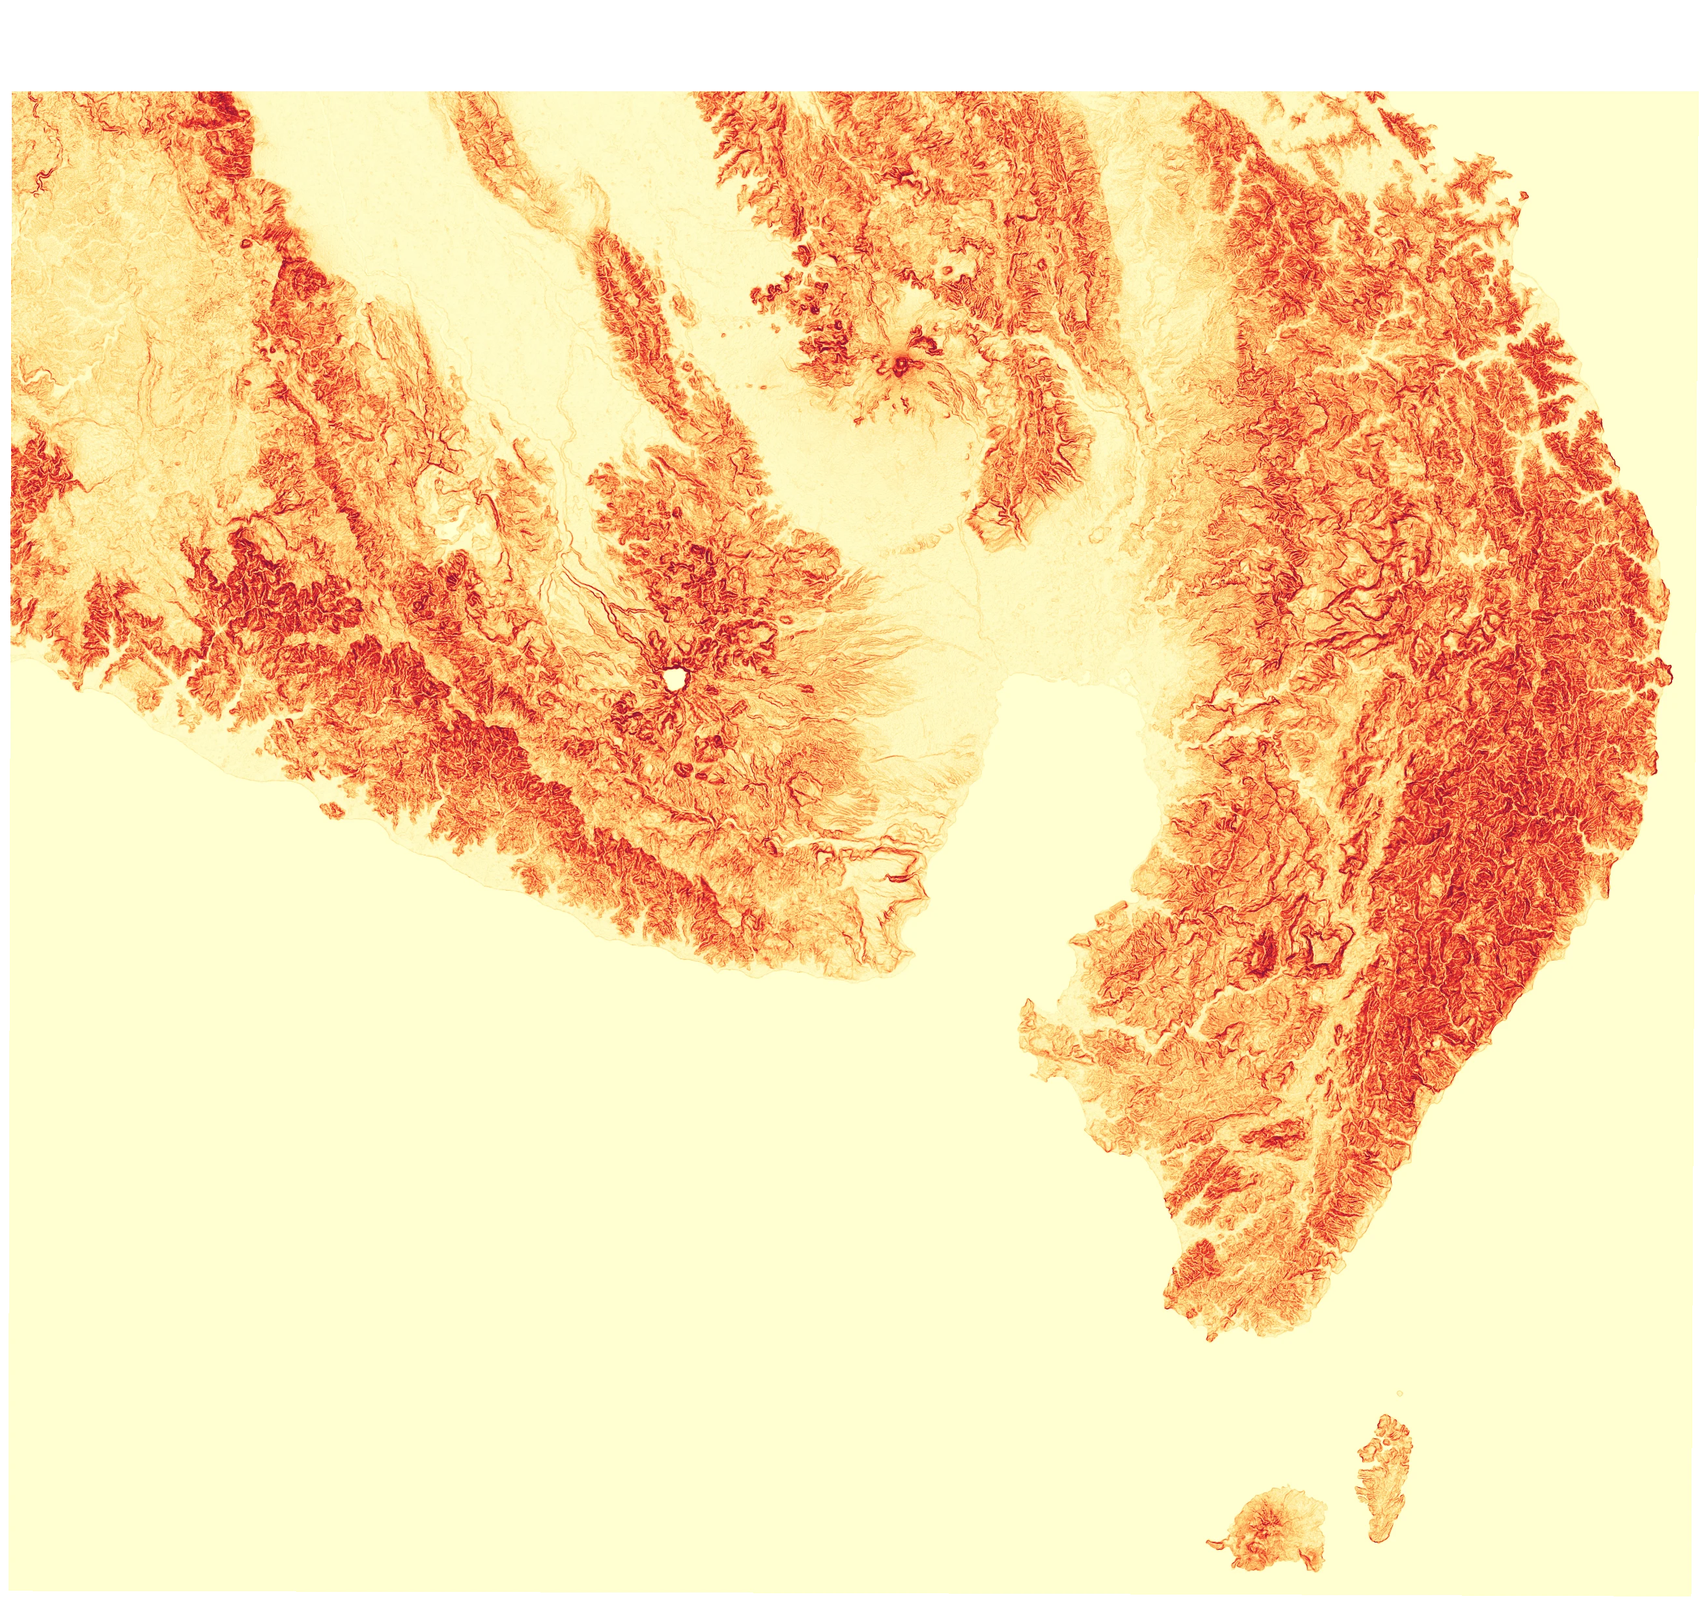
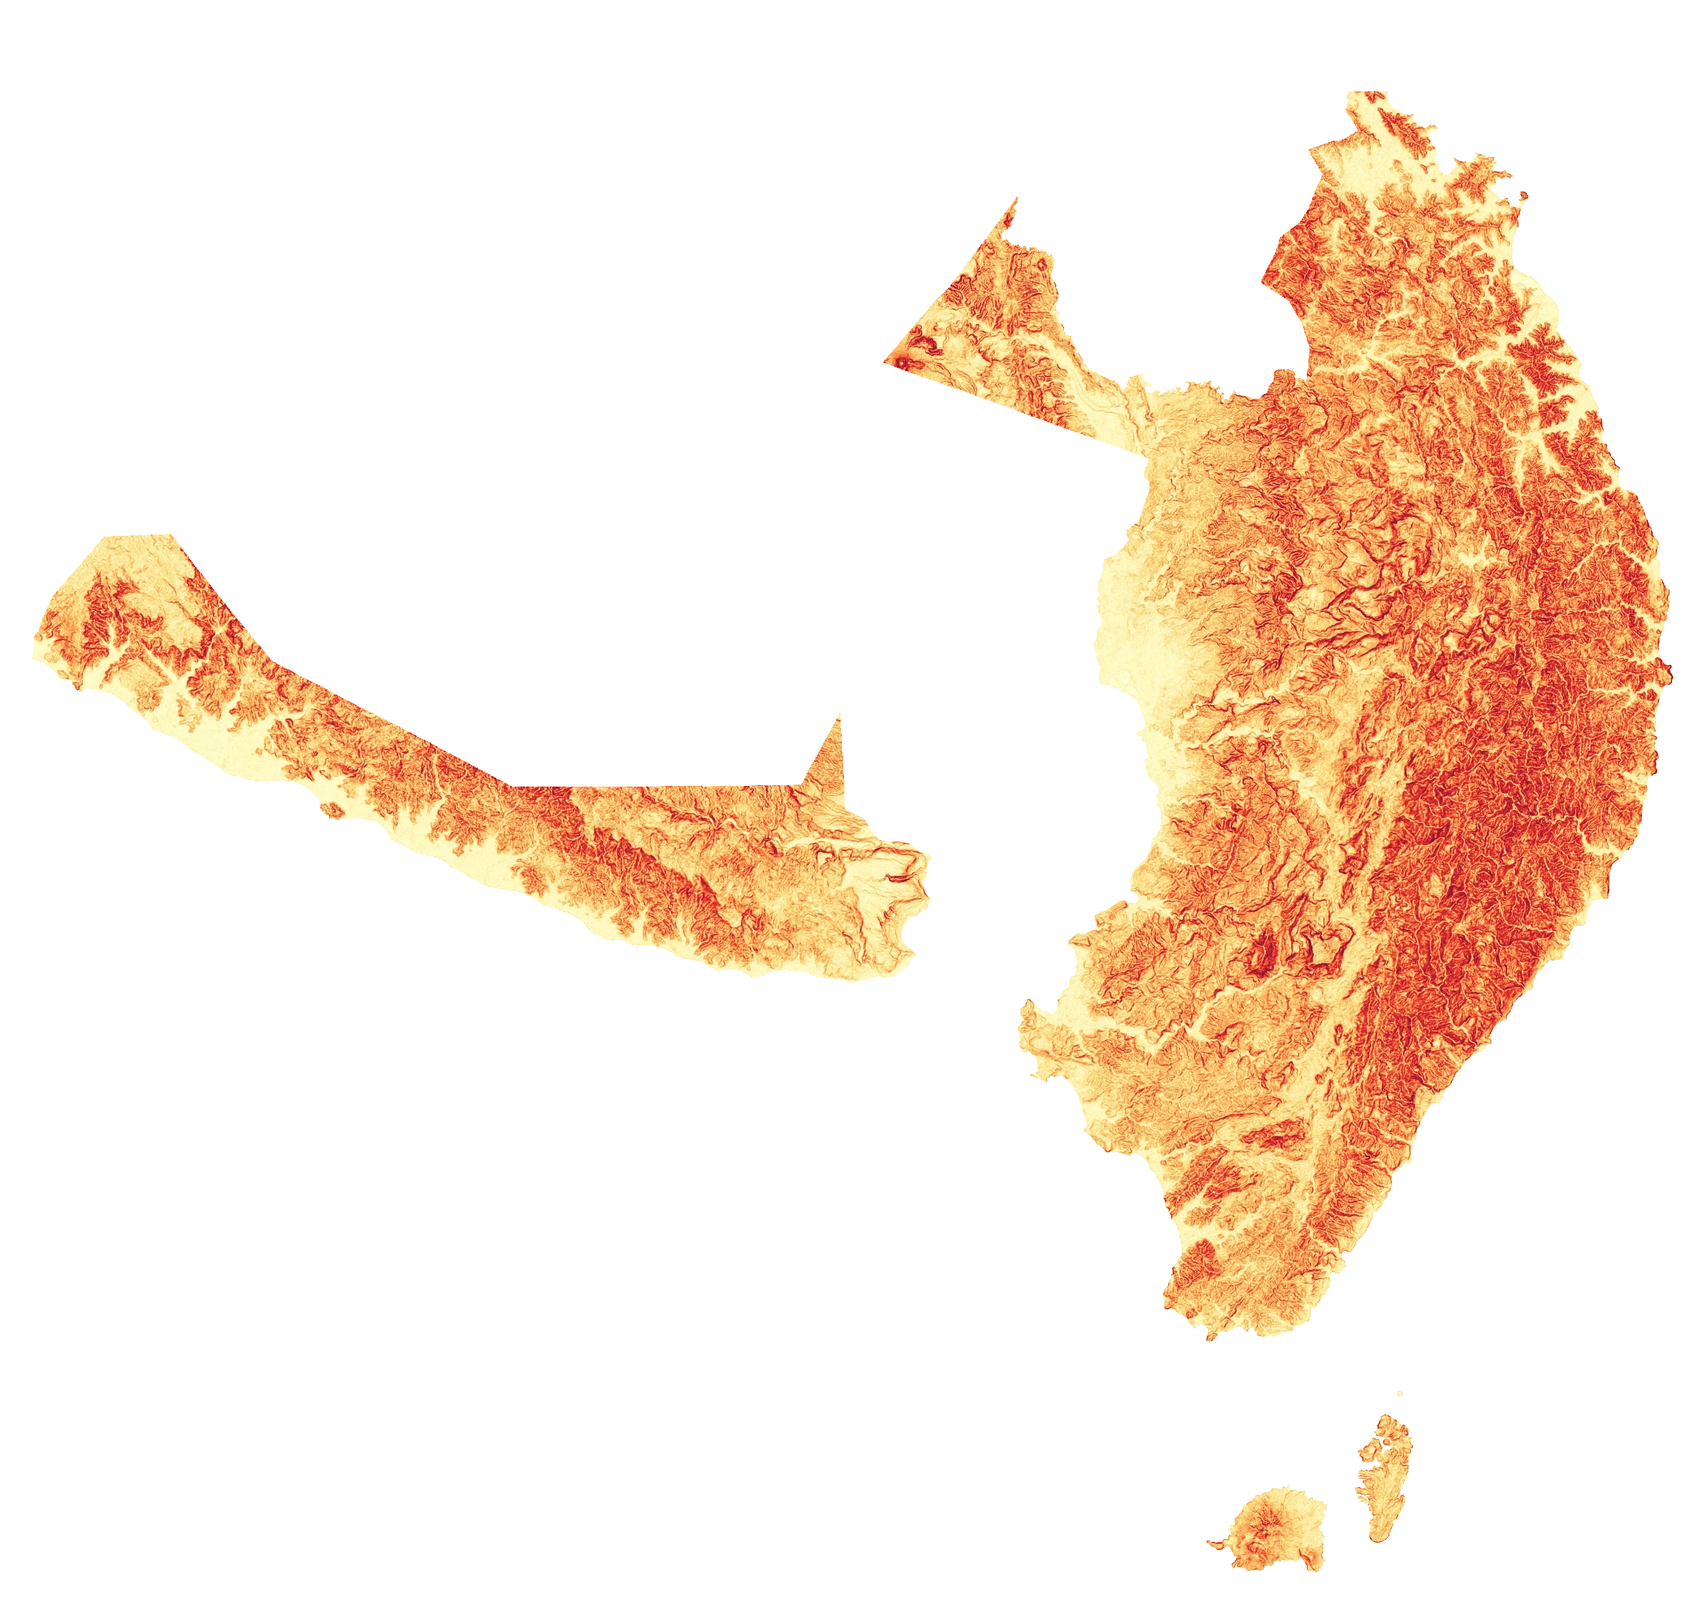
Web map: NISAR change grouped by month (Sep → Oct), satellites named in every topic, fix black layers
- 'What changed' now averages every same-track Sep→Oct pair per pixel: HH covers 99.9% of the two provinces, HV 87%
- Each topic lists the satellites used, and each view shows 'Seen by'
- Land types, landslides and 'where we could look' images were 5240 px wide, above the 4096 px texture limit of many graphics chips, so they drew black; resized to 3900 px
- Steep hills now cropped to the Sarangani and Davao Occidental boundary

Claude-Session: https://claude.ai/code/session_01ELXtJUW8xSpyeLrjWbTvyn

diff --git a/docs/index.html b/docs/index.html
@@ -76,6 +76,11 @@ button:focus-visible,select:focus-visible,input:focus-visible,a:focus-visible,su
 .legend li{display:flex;gap:8px;align-items:center}
 .sw{width:16px;height:16px;border-radius:4px;flex:none;border:1px solid rgba(0,0,0,.18)}
 .vnote{font-size:14px;margin:0}
+.seen{margin:8px 0 0;font-size:12.5px;color:var(--ink2)} .seen b{color:var(--navy)}
+.sats{display:grid;gap:6px}
+.sats div{display:grid;grid-template-columns:30px 1fr;gap:8px;align-items:start;font-size:13px}
+.sats i{font-style:normal;font-size:18px;text-align:center}
+.sats b{color:var(--navy)}
 .big{display:grid;grid-template-columns:1fr 1fr;gap:8px}
 .big div{background:var(--card);border:1px solid #d6c8a6;border-radius:8px;padding:8px 10px}
 .big b{display:block;font:400 24px var(--display);color:var(--quake);font-variant-numeric:tabular-nums}
@@ -267,9 +272,10 @@ dialog .close{float:right;border:2px solid var(--gold);background:var(--navy);co
       <div class="views" data-views="radar"></div>
       <div class="box legend" data-legend="radar"></div>
       <p class="vnote" data-vnote="radar"></p>
+      <div class="box"><h3>🛰 Satellites used</h3><div class="sats"><div><i>🛰</i><span><b>NISAR:</b> NASA and India (ISRO), launched 2025. An L-band radar that sees through clouds. Pictures from 28 June to 19 October 2026.</span></div><div><i>🛰</i><span><b>Landsat 8 & 9:</b> NASA and USGS. Its camera pictures taught the AI plant map.</span></div></div></div>
       <details><summary>For grown-ups: how this works</summary>
         <p>NISAR L2 GCOV (NASA-ISRO, provisional): HH and HV backscatter from 10 m multilooked to 30 m. Each month averages every pass in power: September (4 passes) and October (3 dates, 7 frames) each cover both provinces. June (one pass, 28 June) is left out of the monthly view.</p>
-        <p>"What changed" compares two passes on the same orbit track and frame, so the viewing angle is identical. 28 Jun → 20 Sep: HH fell a median 0.55 dB (drying). 20–25 Sep → 14–19 Oct: HH rose by up to 1.05 dB as rain returned (28 mm in August, 68 mm in September, 122 mm in October, GPM IMERG).</p>
+        <p>"What changed" (September → October): for every same-track, same-frame pair (20/23/25 Sep → 14/17/19 Oct), the later pass minus the earlier in dB, then averaged per pixel: 5 HH pairs (99.9% of the area, median +0.46 dB, 10% rose by more than 2 dB) and 3 HV pairs (87%, median +0.34 dB). Same geometry in each pair, so the change is on the ground. It matches the rain record: 28 mm in August, 68 mm in September, 122 mm in October (GPM IMERG). The single-pass pairs from 28 June are in the data repository.</p>
         <p>"AI plant map": gradient-boosted trees learned Landsat EVI and NDMI from NISAR HH/HV, texture and SRTM terrain (168,000 pixels seen by both within 8 days). 5 km block cross-validation:</p>
         <table class="mlt" id="mltable"></table>
         <p>"Land types": a classifier learned the 2020 land-cover map from June–October NISAR statistics plus terrain, then mapped 2026. Confident disagreement with 2020 is shown as possible change.</p>
@@ -313,6 +319,7 @@ dialog .close{float:right;border:2px solid var(--gold);background:var(--navy);co
         <text x="20" y="80">sea floor slides under</text><text x="200" y="104">★ quake started here</text><text x="220" y="38">coast pushed up</text>
       </svg>
       </div>
+      <div class="box"><h3>🛰 Satellites used</h3><div class="sats"><div><i>🛰</i><span><b>Landsat 8 & 9:</b> NASA and USGS. Camera pictures before and after the quake show where hills turned bare (HLS, 30 m).</span></div><div><i>🚀</i><span><b>SRTM:</b> A radar flown on the Space Shuttle Endeavour in 2000. It measured how high and steep the land is.</span></div></div></div>
       <details><summary>For grown-ups: how the landslides were found</summary>
         <p>Landsat HLS EVI before (1 Mar – 7 Jun 2026) and after (9 Jun – 25 Sep 2026). A spot counts when the slope is at least 20°, EVI fell from at least 0.35 to at most 0.20, and the drop is at least 0.25 more than the normal seasonal change seen in 2025 (sieve ≥ 3 pixels). Two thirds of the area is south of 5.9°N, around Glan (about 31 ha) and Jose Abad Santos (about 63 ha). PhilSA estimated about 138 ha. Spots get far more common on steeper slopes (3, 14 and 30 per 10,000 vegetated pixels at 15–25°, 25–35° and over 35°). About 30% of the area could not be checked because every view was cloudy. Not field-checked: heavy rain or land clearing can look like a slide.</p>
         <p>Event: Mw 7.8, epicentre 5.60°N 125.06°E, depth 33 km (PHIVOLCS) or 57 km (USGS), thrust faulting at the Cotabato Trench. Tsunami 1.48 m on the Kiamba tide gauge; about 138,500 homes damaged (NDRRMC, 21 July); more than 8,500 aftershocks.</p>
@@ -343,6 +350,7 @@ dialog .close{float:right;border:2px solid var(--gold);background:var(--navy);co
         <svg id="chart" viewBox="0 0 320 150" width="100%" role="img" aria-label="Monthly average plant greenness and ground temperature"></svg>
         <p class="note" style="margin:0">Green line: how green the plants are. Red line: how hot the ground is in the day. In April 2026, plants were the least green and the ground was very hot.</p>
       </div>
+      <div class="box"><h3>🛰 Satellites used</h3><div class="sats"><div><i>🛰</i><span><b>Terra (MODIS):</b> A NASA satellite that sees the whole area every day: plant greenness (250 m) and ground heat (1 km).</span></div><div><i>🛰</i><span><b>Landsat 8 & 9:</b> Sharper pictures (30 m) for plant water and water on land.</span></div><div><i>🛰</i><span><b>GPM:</b> NASA and Japan (JAXA) rain satellites: how much rain fell each month.</span></div></div></div>
       <details><summary>For grown-ups: the data</summary>
         <p>Plants: MODIS MOD13Q1 NDVI, monthly maximum, 250 m. Ground heat: MODIS MOD11A2 daytime land surface temperature, 1 km. "Compare with last year" is 2026 minus the same month in 2025. Plant water (NDMI) and water on land (NDWI) are quarterly medians of Landsat HLS L30, 30 m.</p>
       </details>
@@ -366,6 +374,7 @@ dialog .close{float:right;border:2px solid var(--gold);background:var(--navy);co
         <p class="note" style="margin:0" id="rainnote"></p>
       </div>
       <div class="box"><h3>💧 Water</h3><p class="note" style="margin:0" id="waternote"></p></div>
+      <div class="box"><h3>🛰 Satellites used</h3><div class="sats"><div><i>🛰</i><span><b>Terra (MODIS):</b> 26 years of plant greenness and ground heat, 2000–2026, to learn from past El Niños.</span></div><div><i>🛰</i><span><b>GPM (and TRMM before it):</b> Rain since 1998.</span></div><div><i>🌊</i><span><b>Ocean temperature (NOAA):</b> The El Niño number (ONI) from ships, buoys and satellites over the Pacific.</span></div></div></div>
       <details><summary>For grown-ups: can we trust it?</summary>
         <p>We hid each past El Niño, predicted it from the others, then checked.</p>
         <table class="mlt" id="hindtable"></table>
@@ -461,38 +470,40 @@ dialog .close{float:right;border:2px solid var(--gold);background:var(--navy);co
   const CHG=M.layers.filter(l=>l.group==='nisar'&&/_hh_/.test(l.id)).map(l=>{const m=l.id.match(/_(\d{8})_(\d{8})$/);return {l,a:m[1],b:m[2]}}).sort((x,y)=>(x.a+x.b).localeCompare(y.a+y.b));
   const TOPICS={
     radar:{views:[
-      {id:'hv',chip:'🌳 Trees & plants',steps:monthly('nisarm_hv'),lo:'water, bare ground or shadow',hi:'thick trees and leaves',
+      {id:'hv',chip:'🌳 Trees & plants',sat:'NISAR',steps:monthly('nisarm_hv'),lo:'water, bare ground or shadow',hi:'thick trees and leaves',
         note:'Bright places have lots of trees and leaves. Dark places are water, bare ground, or the shady side of a hill.'},
-      {id:'hh',chip:'💧 Wet ground',steps:monthly('nisarm_hh'),lo:'dry and smooth',hi:'wet or bumpy',
+      {id:'hh',chip:'💧 Wet ground',sat:'NISAR',steps:monthly('nisarm_hh'),lo:'dry and smooth',hi:'wet or bumpy',
         note:'Brighter ground is wetter or bumpier. In October the rain came back, so many places got brighter.'},
-      {id:'ai',chip:'🤖 AI plant map',steps:monthly('mlm_evi'),lo:'few plants',hi:'lots of plants',
+      {id:'ai',chip:'🤖 AI plant map',sat:'NISAR, taught by Landsat 8 & 9',steps:monthly('mlm_evi'),lo:'few plants',hi:'lots of plants',
         note:'A computer learned to turn radar into a plant map, so we can see plants even under the clouds. It gets the big picture right, not every field.'},
-      {id:'chg',chip:'🔄 What changed',steps:()=>CHG.map(c=>({l:c.l,label:`${pairDate(c.a)} → ${pairDate(c.b)}`,short:`${pairDate(c.a)}→${pairDate(c.b)}`,sub:c.l.label.replace(/^NISAR HH change, /,'')})),lo:'got drier',hi:'got wetter',
-        note:'The satellite looked at the same place twice from the same spot in space. Brown got drier; teal got wetter. From June to September the ground dried out; in October it got wet again.'},
-      {id:'lc',chip:'🗺 Land types',steps:()=>[[byId.ml_lc_2020,'2020 map','2020'],[byId.ml_lc_2026,'2026, seen by radar AI','2026'],[byId.ml_lc_change,'What changed since 2020','Changed']].filter(x=>x[0]).map(([l,label,short])=>({l,label,short})),
+      {id:'chg',chip:'🔄 What changed',sat:'NISAR',start:0,steps:()=>[[byId.nisarmchg_hh,'Wet ground: September → October','Wet ground'],[byId.nisarmchg_hv,'Plants: September → October','Plants']].filter(x=>x[0]).map(([l,label,short])=>({l,label,short})),
+        lo:{nisarmchg_hh:'got drier',nisarmchg_hv:'fewer leaves'},hi:{nisarmchg_hh:'got wetter',nisarmchg_hv:'more leaves'},
+        note:{nisarmchg_hh:'How the ground changed from September to October. The satellite looks at each place from the same spot in space both months. Teal got wetter, brown got drier. The rain came back in October, so most of the land got wetter.',
+              nisarmchg_hv:'How the plants changed from September to October. Teal has more leaves and branches echoing back, brown has fewer. Big brown patches can be cleared land or harvested fields.'}},
+      {id:'lc',chip:'🗺 Land types',sat:'NISAR, taught by the 2020 land map',steps:()=>[[byId.ml_lc_2020,'2020 map','2020'],[byId.ml_lc_2026,'2026, seen by radar AI','2026'],[byId.ml_lc_change,'What changed since 2020','Changed']].filter(x=>x[0]).map(([l,label,short])=>({l,label,short})),
         note:'Forest, farms, towns and water. The AI made the 2026 map from radar alone. "What changed" shows places that may be different from 2020; they are places to check, not proof.'}]},
     quake:{views:[
-      {id:'slides',chip:'⛰ Landslides',steps:()=>[[byId.eq_evi_pre,'Before the quake (Mar – 7 Jun)','Before'],[byId.eq_evi_post,'After the quake (9 Jun – Sep)','After'],[byId.eq_evi_excess,'What changed','Changed']].map(([l,label,short])=>({l,label,short})),start:2,
+      {id:'slides',chip:'⛰ Landslides',sat:'Landsat 8 & 9',steps:()=>[[byId.eq_evi_pre,'Before the quake (Mar – 7 Jun)','Before'],[byId.eq_evi_post,'After the quake (9 Jun – Sep)','After'],[byId.eq_evi_excess,'What changed','Changed']].map(([l,label,short])=>({l,label,short})),start:2,
         lo:{eq_evi_excess:'lost plants'}, hi:{eq_evi_excess:'gained plants'}, lo2:'few plants', hi2:'lots of plants',
         note:{eq_evi_pre:'How green the land was before the earthquake.',eq_evi_post:'How green the land was after the earthquake. Look for hills that turned bare.',eq_evi_excess:'Brown shows where plants were lost after the quake, more than in a normal year. The red spots are steep hills that turned bare: possible landslides. Tap one.'}},
-      {id:'slope',chip:'📐 Steep hills',steps:()=>[{l:byId.slope,label:'How steep the land is',short:''}],lo:'flat',hi:'very steep',
+      {id:'slope',chip:'📐 Steep hills',sat:'SRTM (Space Shuttle radar)',steps:()=>[{l:byId.slope,label:'How steep the land is',short:''}],lo:'flat',hi:'very steep',
         note:'Landslides happen most on steep hills (dark red). Most possible slides are on slopes steeper than 25°.'},
-      {id:'check',chip:'☁ Where we could look',steps:()=>[{l:byId.eq_classes,label:'Where the check was possible',short:''}],
+      {id:'check',chip:'☁ Where we could look',sat:'Landsat 8 & 9',steps:()=>[{l:byId.eq_classes,label:'Where the check was possible',short:''}],
         note:'Satellites with cameras cannot see through clouds. Blue places were cloudy every time, so we could not check them.'}]},
     nino:{views:[
-      {id:'green',chip:'🌿 Green plants',steps:monthly('ndvi'),alt:monthly('ndvi_anom'),lo:'few plants',hi:'lots of plants',altlo:'browner than last year',althi:'greener than last year',
+      {id:'green',chip:'🌿 Green plants',sat:'Terra (MODIS)',steps:monthly('ndvi'),alt:monthly('ndvi_anom'),lo:'few plants',hi:'lots of plants',altlo:'browner than last year',althi:'greener than last year',
         note:'Darker green means more healthy plants. Press ▶ and watch April 2026: the land got less green in the dry spell.',altnote:'Brown places are less green than the same month in 2025.'},
-      {id:'heat',chip:'🔥 Hot ground',steps:monthly('lst'),alt:monthly('lst_anom'),lo:'cooler',hi:'hotter',altlo:'cooler than last year',althi:'hotter than last year',
+      {id:'heat',chip:'🔥 Hot ground',sat:'Terra (MODIS)',steps:monthly('lst'),alt:monthly('lst_anom'),lo:'cooler',hi:'hotter',altlo:'cooler than last year',althi:'hotter than last year',
         note:'How hot the ground gets in the daytime. Red is hotter.',altnote:'Red places are hotter than the same month in 2025; blue are cooler.'},
-      {id:'pwater',chip:'🍃 Plant water',steps:()=>fam('ndmi').map(l=>({l,label:qtr(l),short:qtr(l).replace(/ 20(\d\d)$/," '$1")})),lo:'thirsty plants',hi:'plants full of water',
+      {id:'pwater',chip:'🍃 Plant water',sat:'Landsat 8 & 9',steps:()=>fam('ndmi').map(l=>({l,label:qtr(l),short:qtr(l).replace(/ 20(\d\d)$/," '$1")})),lo:'thirsty plants',hi:'plants full of water',
         note:'Plants hold water in their leaves. Brown plants are thirsty. Each step is three months.'},
-      {id:'water',chip:'🌊 Water on land',steps:()=>fam('ndwi').map(l=>({l,label:qtr(l),short:qtr(l).replace(/ 20(\d\d)$/," '$1")})),lo:'dry land',hi:'water',
+      {id:'water',chip:'🌊 Water on land',sat:'Landsat 8 & 9',steps:()=>fam('ndwi').map(l=>({l,label:qtr(l),short:qtr(l).replace(/ 20(\d\d)$/," '$1")})),lo:'dry land',hi:'water',
         note:'Dark blue is water: the sea, rivers, ponds and fishponds. Each step is three months.'}]},
     next:{views:[
-      {id:'plants',chip:'🍂 Plants',steps:monthly('out_evi'),start:5,lo:'browner than normal',hi:'greener than normal'},
-      {id:'chance',chip:'🎲 Chance of brown',steps:monthly('out_pb'),start:5,lo:'unlikely',hi:'very likely'},
-      {id:'hot',chip:'🌡 Hot ground',steps:monthly('out_lst'),start:5,lo:'cooler than normal',hi:'hotter than normal'},
-      {id:'risk',chip:'⚠ Dries first',steps:()=>[{l:byId.out_sens,label:'Places that dry out most in El Niño',short:''}],lo:'dries the most',hi:'hardly changes',
+      {id:'plants',chip:'🍂 Plants',sat:'Terra (MODIS), 2000–2026',steps:monthly('out_evi'),start:5,lo:'browner than normal',hi:'greener than normal'},
+      {id:'chance',chip:'🎲 Chance of brown',sat:'Terra (MODIS), 2000–2026',steps:monthly('out_pb'),start:5,lo:'unlikely',hi:'very likely'},
+      {id:'hot',chip:'🌡 Hot ground',sat:'Terra (MODIS), 2000–2026',steps:monthly('out_lst'),start:5,lo:'cooler than normal',hi:'hotter than normal'},
+      {id:'risk',chip:'⚠ Dries first',sat:'Terra (MODIS), 2000–2026',steps:()=>[{l:byId.out_sens,label:'Places that dry out most in El Niño',short:''}],lo:'dries the most',hi:'hardly changes',
         note:'In past El Niños, the brown places lost the most green. Farms, grass and young trees there may need help first.'}]}
   };
   Object.values(TOPICS).forEach(t=>t.views=t.views.filter(v=>{try{const s=v.steps();return s.length&&s.every(x=>x.l)}catch(e){return false}}));
@@ -592,13 +603,13 @@ dialog .close{float:right;border:2px solid var(--gold);background:var(--navy);co
     const {t,vi,v,steps,key,useAlt,i}=cur(), s=steps[i], l=s.l, k=state.topic;
     document.querySelectorAll(`[data-views="${k}"] button`).forEach((b,j)=>b.setAttribute('aria-pressed',j===vi));
     const lo=useAlt?v.altlo:(pick(v.lo,l)||v.lo2), hi=useAlt?v.althi:(pick(v.hi,l)||v.hi2);
-    document.querySelector(`[data-legend="${k}"]`).innerHTML=`<h3>What the colours mean</h3>`+legendHTML(l,lo,hi);
+    document.querySelector(`[data-legend="${k}"]`).innerHTML=`<h3>What the colours mean</h3>`+legendHTML(l,lo,hi)+(v.sat?`<p class="seen">🛰 Seen by: <b>${v.sat}</b></p>`:'');
     document.querySelector(`[data-vnote="${k}"]`).textContent=(useAlt?v.altnote:pick(v.note,l))||outlookNote(v.id,i)||'';
     document.getElementById('cmpRow').hidden=!(k==='nino'&&v.alt);
     document.getElementById('spotsRow').hidden=k!=='quake';
     // time frame
     document.getElementById('when').textContent=s.label;
-    document.getElementById('whatnow').textContent=(s.sub?s.sub+' · ':'')+v.chip.replace(/^\S+\s/,'');
+    document.getElementById('whatnow').textContent=v.chip.replace(/^\S+\s/,'')+(v.sat?' · 🛰 '+v.sat.replace(/, .*/,''):'');
     stepsEl.innerHTML=''; const many=steps.length>12;
     steps.forEach((st,j)=>{const b=document.createElement('button');b.setAttribute('aria-current',j===i);b.setAttribute('aria-label',st.label);b.title=st.label;
       const show=!many||j===0||j===steps.length-1||j===i||/^Jan/.test(st.short);
